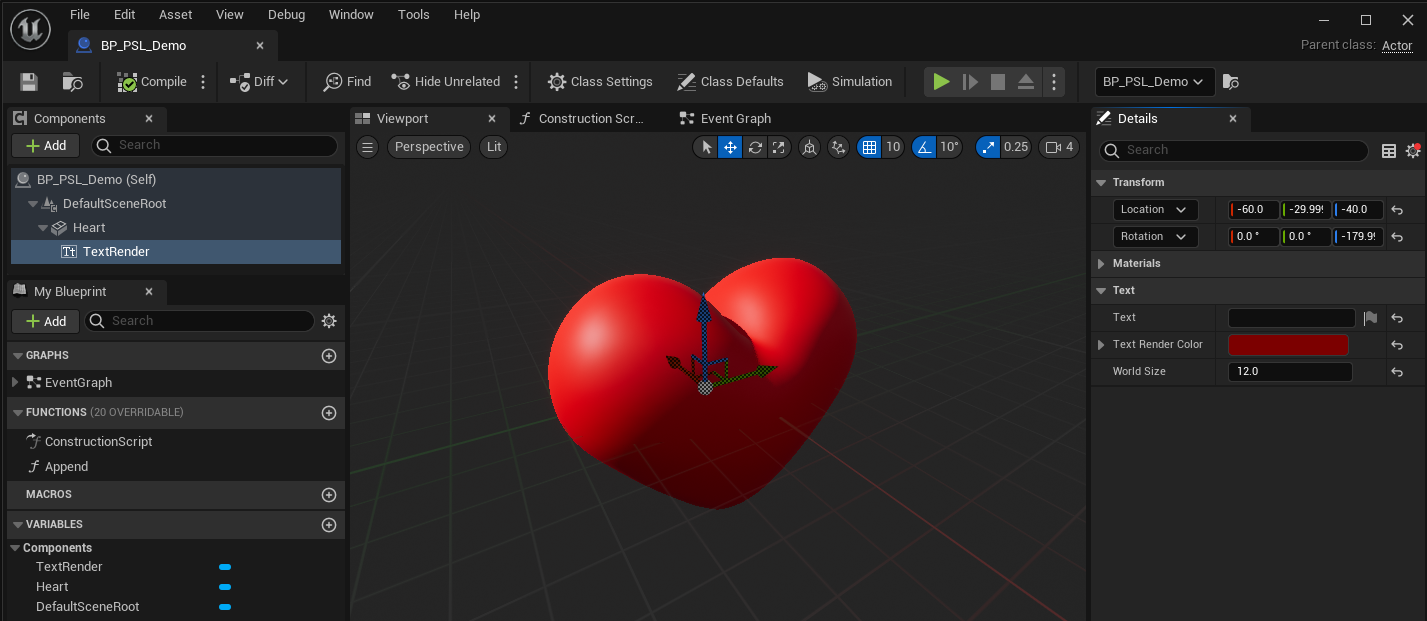
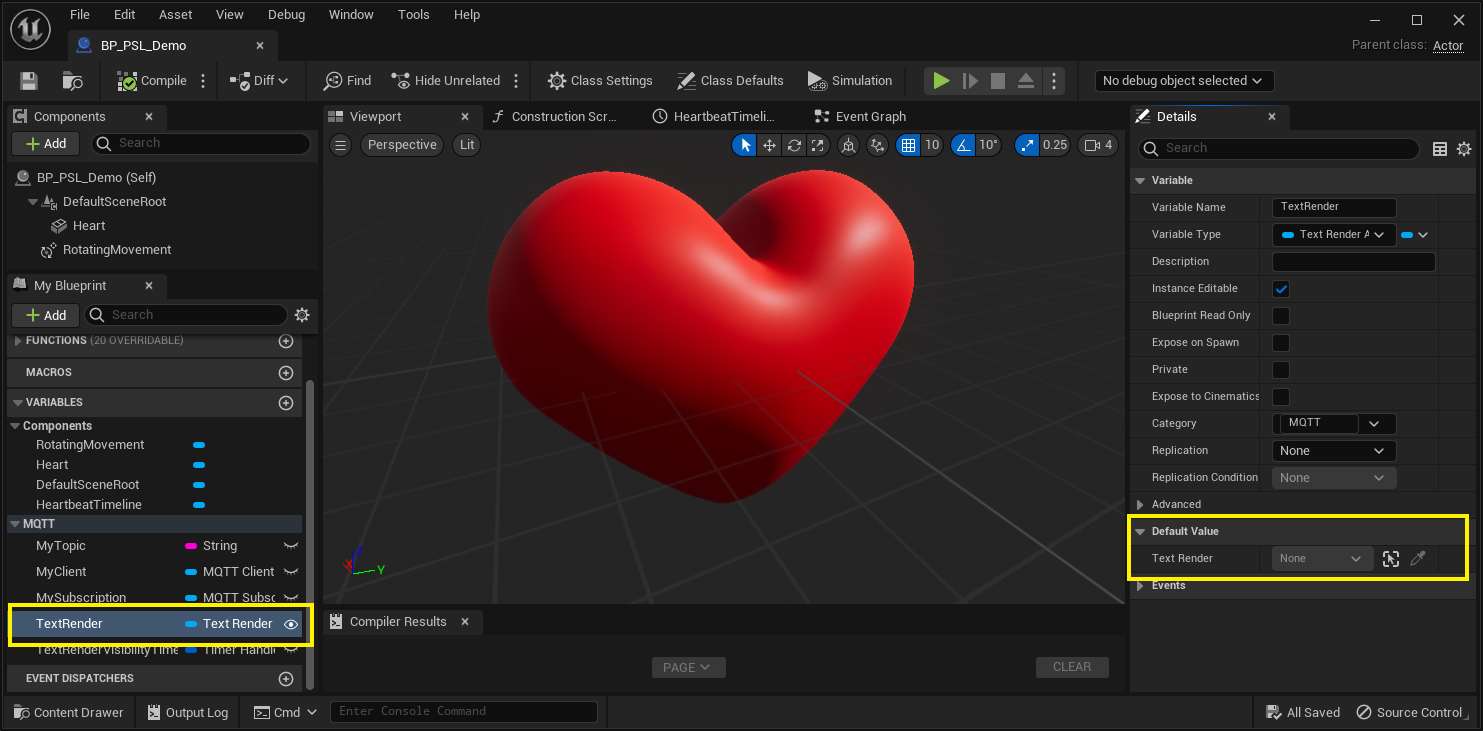
doc: update readme and screenshots

diff --git a/README.md b/README.md
@@ -45,10 +45,10 @@ An Unreal&reg; Engine project as proof-of-concept for receiving physiological da
 * [Appendix](#appendix)
   * [Acronyms](#acronyms)
   * [Glossary](#glossary)
-  * [A. Attribution](#a-attribution)
-  * [B. Acknowledgements](#b-acknowledgements)
-  * [C. References](#c-references)
-  * [D. Readings](#d-readings)
+  * [A. References](#a-references)
+  * [B. Readings](#b-readings)
+  * [C. Acknowledgements](#c-acknowledgements)
+  * [D. Attribution](#d-attribution)
   * [E. Citation](#e-citation)
   * [F. Disclaimer](#f-disclaimer)
 
@@ -124,10 +124,10 @@ UE project "Heartbeat" makes use of built-in IOT plugin "MQTT" (see figure 2.2.)
 
 #### 2.3.2. MQTT Subscription
 
-Map `Map_PSL_Demo` holds a Blueprint instance `BP_PSL_Demo` (see figure 2.3.).
+Map `Map_PSL_Demo` holds a Blueprint instance `BP_PSL_Demo` and additionally a TextRenderActor instance, which is assigned as Object Reference to the `BP_PSL_Demo` variable 'TextRender' (see figure 2.3.).
 
-![Map_PSL_Demo with BP_PSL_Demo instance also seen in the Outliner](Docs/UEProjectHeartbeat-MQTTSubscription-Map_PSL_Demo.png)
-*Figure 2.3.: Map_PSL_Demo with BP_PSL_Demo instance also seen in the Outliner*
+![Map_PSL_Demo with BP_PSL_Demo and TextRenderActor in the Outliner](Docs/UEProjectHeartbeat-Map_PSL_Demo.png)
+*Figure 2.3.: Map_PSL_Demo with BP_PSL_Demo and TextRenderActor in the Outliner*
 
 <div style='page-break-after: always'></div>
 
@@ -135,32 +135,56 @@ Blueprint `BP_PSL_Demo` has components as follows (see figure 2.4.):
 
 * Scene Components:
   * Static Mesh Component `Heart`
-  * Text Render Component `TextRender` with `Text > Text Render Color` set to red
 * Actor Components:
   * Rotating Movement Component
+  * Timeline Component `HeartbeatTimeline`
 
-![BP_PSL_Demo, Text Render Component](Docs/UEProjectHeartbeat-BP_PSL_Demo-TextRender.png)
-*Figure 2.4.: BP_PSL_Demo, Text Render Component*
-
-Blueprint `BP_PSL_Demo` has variables as follows (see figure 2.5.):
+Blueprint `BP_PSL_Demo` has variables as follows (see figure 2.4.):
 
 * String `MyTopic`, default value set to `psl/hr`
 * MQTT-Client Object Reference `MyClient`
 * MQTT-Subscription Object Reference `MySubscription`
+* TextRenderActor Object Reference `TextRender` (public)
 
-`OnBeginPlay` an MQTT-Client is crated and connected. `OnConnect`, if the connection was accepted, the topic is subscribed. `OnMessage` the received MQTT-Client-Message payload is evaluated.
+![BP_PSL_Demo, Text Render Component](Docs/UEProjectHeartbeat-BP_PSL_Demo-TextRender.png)
+*Figure 2.4.: BP_PSL_Demo, Text Render Component*
 
-![BP_PSL_Demo, Event Graph](Docs/UEProjectHeartbeat-MQTTSubscription-BP_PSL_Demo.png)
-*Figure 2.5.: BP_PSL_Demo, Event Graph*
+<div style='page-break-after: always'></div>
+
+Blueprint `BP_PSL_Demo` has events as follows (see figure 2.5.):
+
+* EventBeginPlay, EventEndPlay
+* OnConnect, OnDisconnect, OnMessage
+* HeartbeatStandby, HeartbeatUpdate, HeartbeatDeactivate
+* TextRenderBlink, HeartbeatReset
+
+![BP_PSL_Demo, Event Graph Overview](Docs/UEProjectHeartbeat-BP_PSL_Demo_EventGraph.png)
+*Figure 2.5.: BP_PSL_Demo, Event Graph Overview*
+
+<div style='page-break-after: always'></div>
+
+##### 2.3.2.1. Messaging Setup
+
+On `EventBeginPlay` an MQTT-Client is crated and connected, with `HeartbeatStandby` the HeartMesh starts rotating and the TextRenderActor starts blinking. `OnConnect`, if the connection was accepted, the topic is subscribed. `OnMessage` the received MQTT-Client-Message payload is evaluated by calling `HeartbeatUpdate` (see figure 2.6.).
+
+![BP_PSL_Demo, Event Graph with Setup](Docs/UEProjectHeartbeat-BP_PSL_Demo_Startup.png)
+*Figure 2.6.: BP_PSL_Demo, Event Graph with Setup*
+
+##### 2.3.2.2. Messaging Teardown
+
+On `EventEndPlay` the topic is unsubscribed and the MQTT-Client is disconnected (see figure 2.7.).
+
+![BP_PSL_Demo, Event Graph with Teardownp](Docs/UEProjectHeartbeat-BP_PSL_Demo_Teardown.png)
+*Figure 2.7.: BP_PSL_Demo, Event Graph with Teardown*
 
 <div style='page-break-after: always'></div>
 
 ### 2.4. Mosquitto
 
-Install Mosquitto MQTT-Broker (cp. [6]) and startup the Windows Service "Mosquitto Broker" (see figure 2.6.).
+Install Mosquitto MQTT-Broker (cp. [6]) and startup the Windows Service "Mosquitto Broker" (see figure 2.8.).
 
 ![Screenshot Mosquitto Broker as Windows Service](Docs/ScreenshotMosquittoWindowsService.png)
-*Figure 2.6.: Mosquitto Broker as Windows Service*
+*Figure 2.8.: Mosquitto Broker as Windows Service*
 
 <div style='page-break-after: always'></div>
 
@@ -208,21 +232,23 @@ Mount the Polar H10 sensor on the chest strap and wear the same. On the Android 
 2. Activate Bluetooth
 3. Activate Location Service
 4. Launch the "Polar Sensor Logger" App
-   1. Under "SDK data select:" check `ECG` solely (cp. figure 2.7.).
-   2. Under "Settings:" check `MQTT` solely (cp. figure 2.7.).
-      * In the pop-up "MQTT-serttings" configure (cp. figure 2.8.):
+   1. Under "SDK data select:" check `ECG` solely (cp. figure 2.9.).
+   2. Under "Settings:" check `MQTT` solely (cp. figure 2.9.).
+      * In the pop-up "MQTT-serttings" configure (cp. figure 2.10.):
          * MQTT-broker address: `127.0.0.1`
          * Port: `1883`
          * Topic: `psl`
          * Client ID: e.g. `MyPSL-01`
       * Hit `OK`
    3. Hit `SEEK SENSOR`
-      * Select listed sensor `Polar H10 12345678` (ID will differ) (cp. figure 2.9.)
+      * Select listed sensor `Polar H10 12345678` (ID will differ) (cp. figure 2.11.)
       * Hit `OK`
 
 ![PSL-MainTab](Docs/PSL-01-MainTab.png) | ![PSL-DialogueMQTTSettings](Docs/PSL-02-DialogueMQTTSettings.png) | ![/PSL-DialogueSeekSensor](Docs/PSL-03-DialogueSeekSensor.png)
 :-------------------------:|:-------------------------:|:-------------------------:
-*Figure 2.7.: PSL, Main Tab* | *Figure 2.8.: PSL, Dialogue "MQTT Settings"* | *Figure 2.9.: PSL, Dialogue "Seek Sensor"*
+*Figure 2.9.: PSL, Main Tab* | *Figure 2.10.: PSL, Dialogue "MQTT Settings"* | *Figure 2.11.: PSL, Dialogue "Seek Sensor"*
+
+<div style='page-break-after: always'></div>
 
 Listing 2.7. shows an example payload of topic `psl/hr` as JSON (size: 173 Bytes), where ```"hr": 64``` corresponds to the heart rate in Beats per Minute (BPM) and ```"rr": [ 833 ]``` corresponds to the R-R interval in Milliseconds.
 
@@ -334,23 +360,7 @@ The R-R interval is an inter-beat interval, more precisely the time elapsed betw
 
 <div style='page-break-after: always'></div>
 
-### A. Attribution
-
-* The word mark Unreal and its logo are Epic Games, Inc. trademarks or registered trademarks in the US and elsewhere.
-* The word mark Polar and its logos are trademarks of Polar Electro Oy.
-* Android is a trademark of Google LLC.
-* The Bluetooth word mark and logos are registered trademarks owned by Bluetooth SIG, Inc.
-* Windows and PowerShell are registered trademarks of Microsoft Corporation.
-* The Chocolatey package manager software and logo are trade marks of Chocolatey Software, Inc.
-* Mosquitto is a registered trade mark of the Eclipse Foundation.
-* Wireshark and the "fin" logo are registered trademarks of the Wireshark Foundation.
-
-### B. Acknowledgements
-
-* Logo: "A red heart with a heartbeat to the right", by Diego Naive / Joe Sutherland, June 6, 2018. Online: [https://de.wikipedia.org/wiki/Datei:Red_heart_with_heartbeat_logo.svg](https://de.wikipedia.org/wiki/Datei:Red_heart_with_heartbeat_logo.svg), licensed under [Creative Commons Attribution 4.0](http://creativecommons.org/licenses/by/4.0/).
-* 3D Model: "Heart", by phenopeia, January 16, 2015. Online: [https://skfb.ly/CCyL](https://skfb.ly/CCyL), licensed under [Creative Commons Attribution 4.0](http://creativecommons.org/licenses/by/4.0/).
-
-### C. References
+### A. References
 
 * [1] Polar Electro: **Polar H10**. Heart Rate Sensor with Chest Strap, Online: [https://www.polar.com/en/sensors/h10-heart-rate-sensor](https://www.polar.com/en/sensors/h10-heart-rate-sensor)
 * [2] Jukka Happonen: **Polar Sensor Logger**. App on Google Play, Online: [https://play.google.com/store/apps/details?id=com.j_ware.polarsensorlogger](https://play.google.com/store/apps/details?id=com.j_ware.polarsensorlogger)
@@ -364,11 +374,27 @@ The R-R interval is an inter-beat interval, more precisely the time elapsed betw
 * [10]  **RR Interval**. In: ScienceDirect. From: Principles and Practice of Sleep Medicine (Fifth Edition), 2011. Online: [https://www.sciencedirect.com/topics/nursing-and-health-professions/rr-interval](https://www.sciencedirect.com/topics/nursing-and-health-professions/rr-interval)
 * [11] Mike Cadogan: **R wave Overview**. Feb 4, 2021. In: Live In The Fastlane &ndash; ECG Library, ECG Basics. Online: [https://litfl.com/r-wave-ecg-library/](https://litfl.com/r-wave-ecg-library/)
 
-<div style='page-break-after: always'></div>
-
-### D. Readings
+### B. Readings
 
 * Ch&#281;&cacute;, A.; Olczak, D.; Fernandes, T. and Ferreira, H. (2015). **Physiological Computing Gaming - Use of Electrocardiogram as an Input for Video Gaming**. In: Proceedings of the 2nd International Conference on Physiological Computing Systems - PhyCS, ISBN 978-989-758-085-7; ISSN 2184-321X, pages 157-163. DOI: [10.5220/0005244401570163](http://dx.doi.org/10.5220/0005244401570163)
+
+<div style='page-break-after: always'></div>
+
+### C. Acknowledgements
+
+* Logo: "A red heart with a heartbeat to the right", by Diego Naive / Joe Sutherland, June 6, 2018. Online: [https://de.wikipedia.org/wiki/Datei:Red_heart_with_heartbeat_logo.svg](https://de.wikipedia.org/wiki/Datei:Red_heart_with_heartbeat_logo.svg), licensed under [Creative Commons Attribution 4.0](http://creativecommons.org/licenses/by/4.0/).
+* 3D Model: "Heart", by phenopeia, January 16, 2015. Online: [https://skfb.ly/CCyL](https://skfb.ly/CCyL), licensed under [Creative Commons Attribution 4.0](http://creativecommons.org/licenses/by/4.0/).
+
+### D. Attribution
+
+* The word mark Unreal and its logo are Epic Games, Inc. trademarks or registered trademarks in the US and elsewhere.
+* The word mark Polar and its logos are trademarks of Polar Electro Oy.
+* Android is a trademark of Google LLC.
+* The Bluetooth word mark and logos are registered trademarks owned by Bluetooth SIG, Inc.
+* Windows and PowerShell are registered trademarks of Microsoft Corporation.
+* The Chocolatey package manager software and logo are trade marks of Chocolatey Software, Inc.
+* Mosquitto is a registered trade mark of the Eclipse Foundation.
+* Wireshark and the "fin" logo are registered trademarks of the Wireshark Foundation.
 
 ### E. Citation
 
